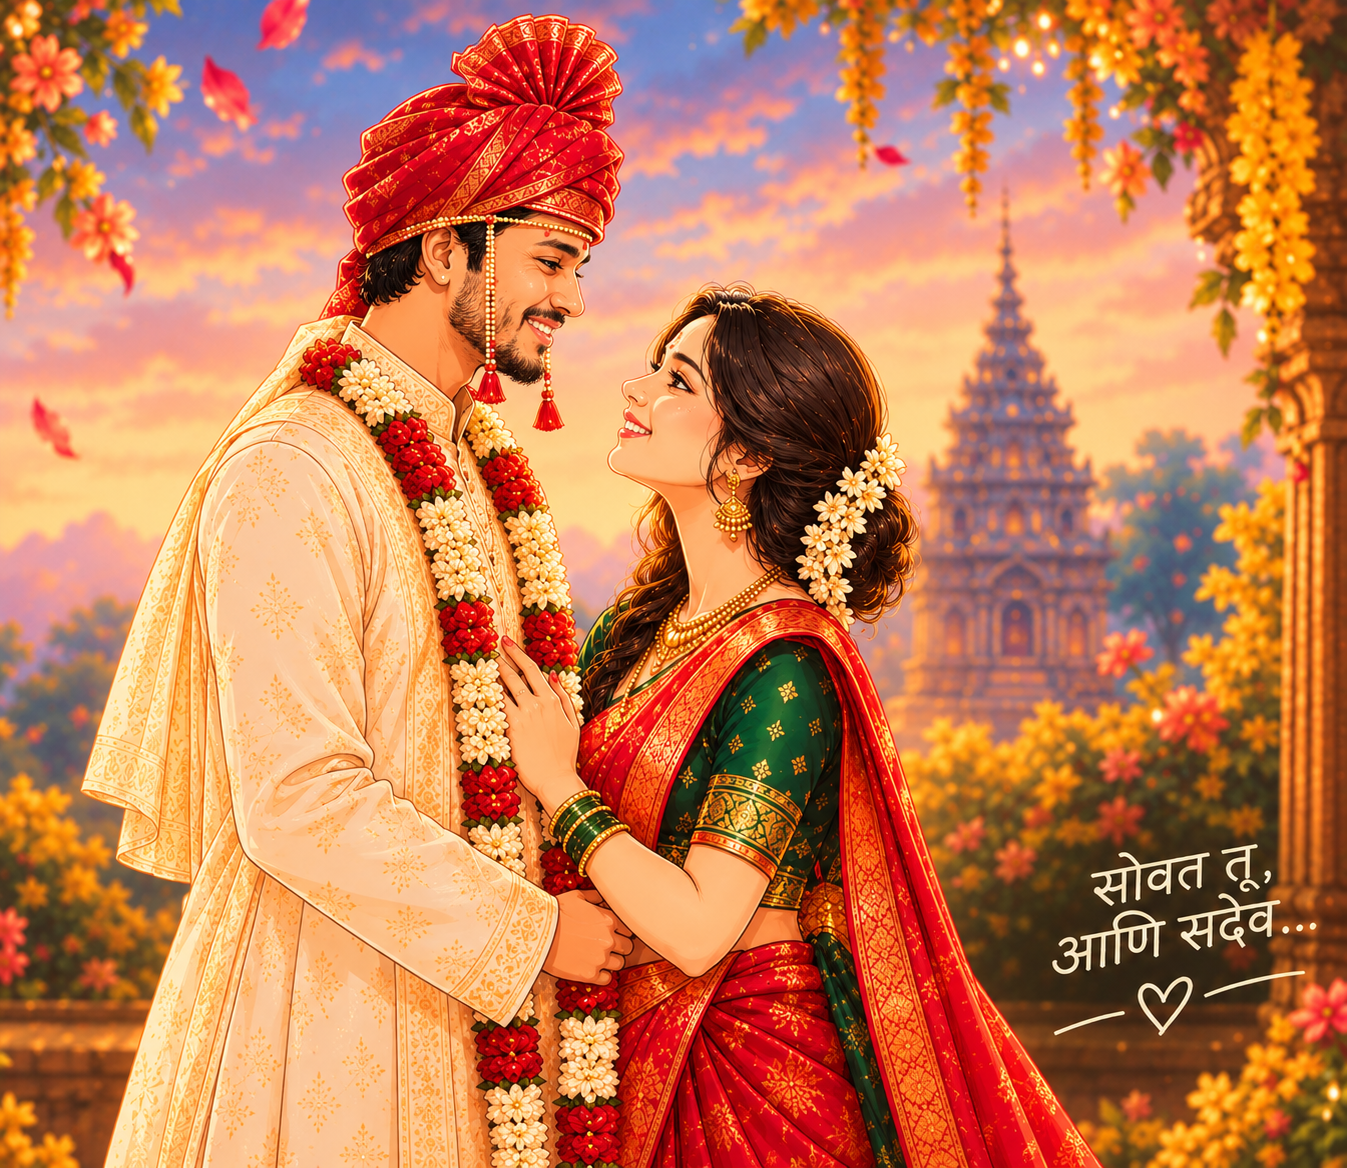
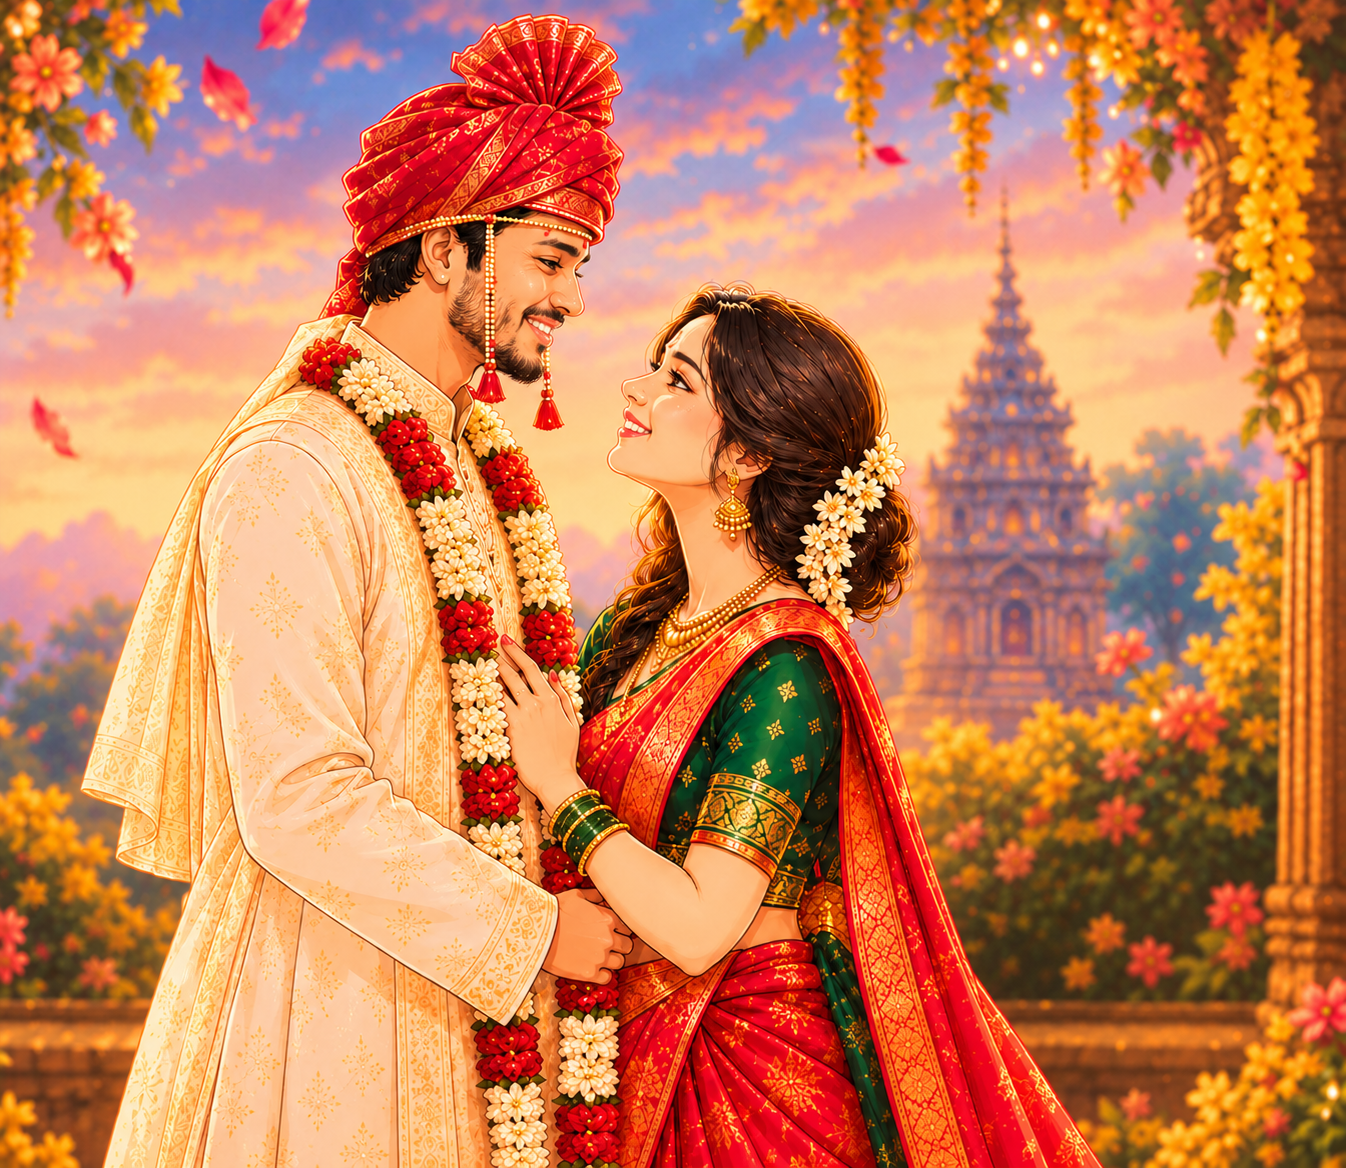
Fix heroimg

diff --git a/src/components/Hero.jsx b/src/components/Hero.jsx
@@ -38,7 +38,7 @@ export default function Hero() {
           src={heroImage}
           alt="Wedding illustration of Sanket and Pranjali"
         />
-        <span className="hero-art-caption">सोबत तू, आणि स्वप्नं...</span>
+        {/* <span className="hero-art-caption">सोबत तू, आणि स्वप्नं...</span> */}
       </motion.div>
     </section>
   );
